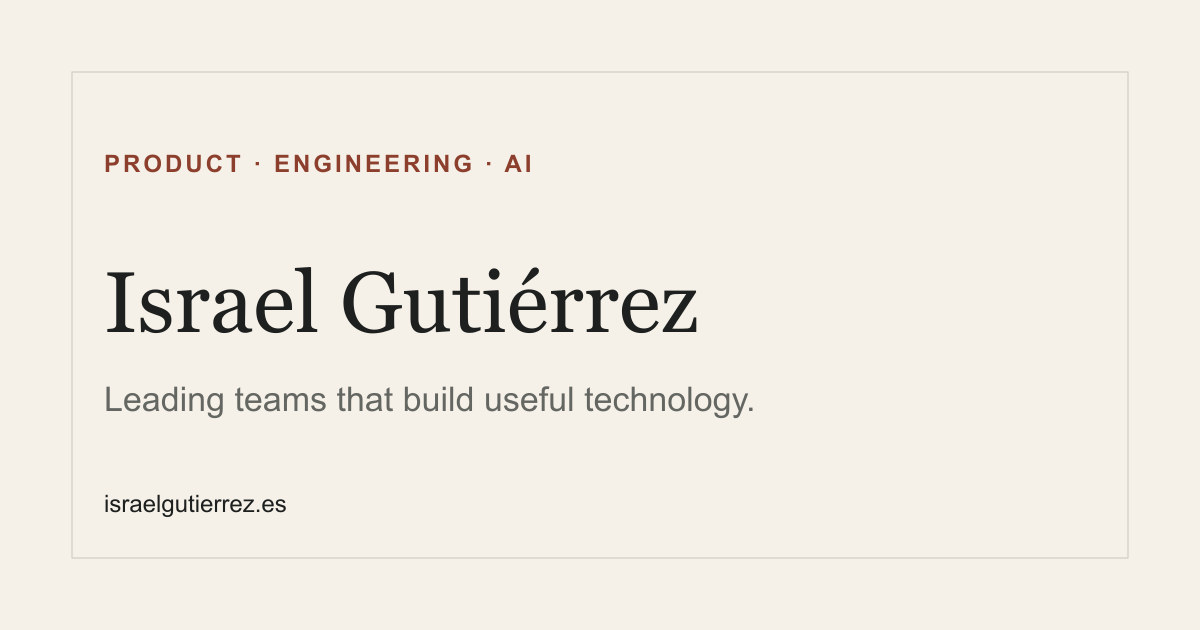
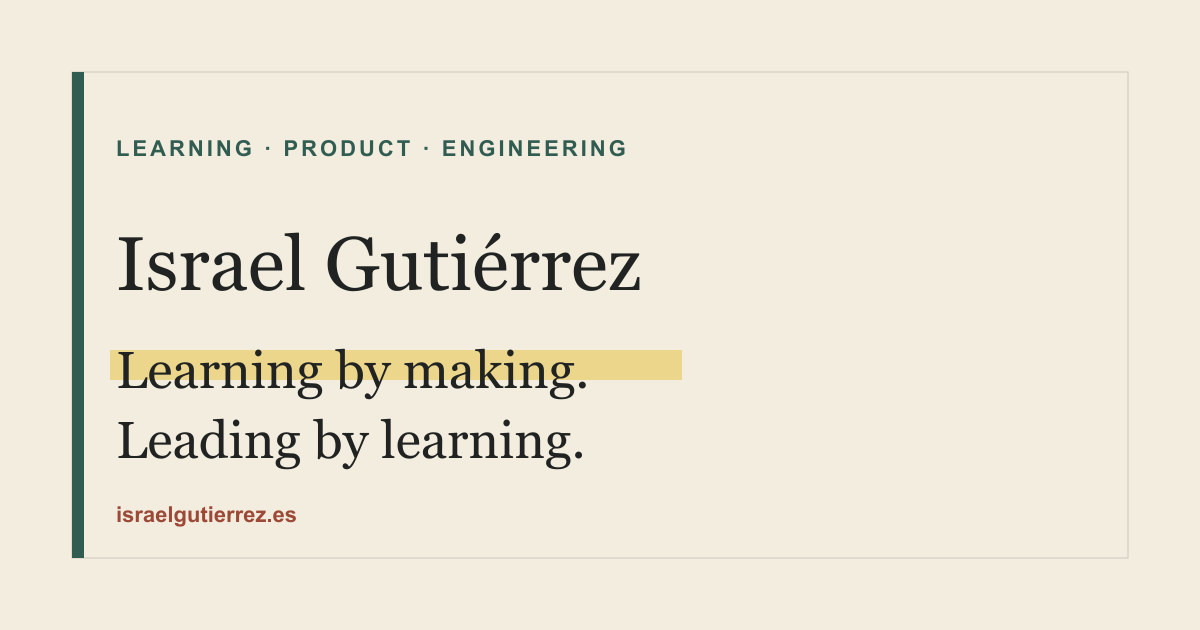
chore: complete Living Notebook release gate

Changed region(s): [[0.0617, 0.1206, 0.6167, 0.9048]]

diff --git a/tests/e2e/notes.spec.ts b/tests/e2e/notes.spec.ts
@@ -48,6 +48,35 @@ test('publishes both launch notes in newest-first order', async ({
     'content',
     'es_ES',
   );
+  await expect(page.locator('meta[property="og:type"]')).toHaveAttribute(
+    'content',
+    'article',
+  );
+  await expect(page.locator('meta[property="og:image"]')).toHaveAttribute(
+    'content',
+    /^https:\/\/israelgutierrez\.es\/_astro\//,
+  );
+  await expect(page.locator('meta[property="og:image:width"]')).toHaveAttribute(
+    'content',
+    '1200',
+  );
+  await expect(
+    page.locator('meta[property="og:image:height"]'),
+  ).toHaveAttribute('content', '750');
+  await expect(
+    page.locator('meta[property="article:published_time"]'),
+  ).toHaveAttribute('content', /^2026-11-08/);
+  const gameJsonLd = JSON.parse(
+    (await page.locator('script[type="application/ld+json"]').textContent()) ??
+      '',
+  ) as {
+    '@type': string;
+    inLanguage: string;
+    author: { name: string };
+  };
+  expect(gameJsonLd['@type']).toBe('Article');
+  expect(gameJsonLd.inLanguage).toBe('es');
+  expect(gameJsonLd.author.name).toBe('Israel Gutiérrez');
   await expect(
     page.getByRole('img', { name: /Una jornada decente.*game/i }),
   ).toBeVisible();
@@ -77,6 +106,39 @@ test('publishes both launch notes in newest-first order', async ({
   const criticalResponse = await request.get('/notes/critical-reader/');
   expect(criticalResponse.ok()).toBe(true);
   await page.goto('/notes/critical-reader/');
+  await expect(page.locator('meta[property="og:locale"]')).toHaveAttribute(
+    'content',
+    'en_US',
+  );
+  await expect(page.locator('meta[property="og:type"]')).toHaveAttribute(
+    'content',
+    'article',
+  );
+  await expect(page.locator('meta[property="og:image"]')).toHaveAttribute(
+    'content',
+    /^https:\/\/israelgutierrez\.es\/_astro\//,
+  );
+  await expect(page.locator('meta[property="og:image:width"]')).toHaveAttribute(
+    'content',
+    '1200',
+  );
+  await expect(
+    page.locator('meta[property="og:image:height"]'),
+  ).toHaveAttribute('content', '750');
+  await expect(
+    page.locator('meta[property="article:published_time"]'),
+  ).toHaveAttribute('content', /^2026-11-02/);
+  const criticalJsonLd = JSON.parse(
+    (await page.locator('script[type="application/ld+json"]').textContent()) ??
+      '',
+  ) as {
+    '@type': string;
+    inLanguage: string;
+    author: { name: string };
+  };
+  expect(criticalJsonLd['@type']).toBe('Article');
+  expect(criticalJsonLd.inLanguage).toBe('en');
+  expect(criticalJsonLd.author.name).toBe('Israel Gutiérrez');
   await expect(
     page.getByRole('heading', {
       level: 1,

diff --git a/tests/e2e/homepage.spec.ts b/tests/e2e/homepage.spec.ts
@@ -27,13 +27,21 @@ test('publishes complete identity and sharing metadata', async ({ page }) => {
   const jsonLd = JSON.parse(
     (await page.locator('script[type="application/ld+json"]').textContent()) ??
       '',
-  ) as { '@type': string; url: string; sameAs: string[] };
+  ) as {
+    '@type': string;
+    url: string;
+    sameAs: string[];
+    jobTitle: string;
+  };
   expect(jsonLd['@type']).toBe('Person');
   expect(jsonLd.url).toBe('https://israelgutierrez.es/');
   expect(jsonLd.sameAs).toEqual([
     'https://www.linkedin.com/in/israelgutierrezrojas/',
     'https://github.com/gootyfer',
   ]);
+  expect(jsonLd.jobTitle).toBe(
+    'Hands-on product leader in adult learning and edtech',
+  );
   expect(JSON.stringify(jsonLd)).not.toContain('mailto:');
 });
 
@@ -283,6 +291,15 @@ for (const width of [320, 768, 1440]) {
       '.project-feature__visual img, .project-compact__image',
     );
     for (const image of await projectImages.all()) {
+      await image.scrollIntoViewIfNeeded();
+      await expect
+        .poll(() =>
+          image.evaluate((element) => {
+            const img = element as HTMLImageElement;
+            return img.complete && img.naturalWidth > 0;
+          }),
+        )
+        .toBe(true);
       const ratio = await image.evaluate((element) => {
         const img = element as HTMLImageElement;
         const box = img.getBoundingClientRect();

diff --git a/docs/release/2026-11-02-launch-checklist.md b/docs/release/2026-11-02-launch-checklist.md
@@ -75,18 +75,28 @@ records during the web cutover.
 
 ## Pre-DNS deployment checks
 
-- [ ] CI is green for formatting, Astro/TypeScript, unit/content,
-      configuration, build, and all 66 browser tests.
-- [ ] Homepage renders at mobile and desktop widths.
-- [ ] LinkedIn, GitHub, and email links are correct.
+- [x] CI is green for formatting, Astro/TypeScript, unit/content,
+      configuration, build, and the complete configured browser suite.
+- [x] Homepage renders at mobile and desktop widths.
+- [x] LinkedIn, GitHub, and email links are correct.
 - [x] Portrait approved by Israel for public launch on 2026-11-02.
 - [x] Public email address `me@israelgutierrez.es` approved by Israel on
       2026-11-02.
-- [ ] Selected work and talk claims have been checked one final time.
-- [ ] Exact archived article route returns 200.
-- [ ] RSS, sitemap, robots, 404, favicon, social image, canonical metadata, and
+- [x] Living Notebook direction, uncropped portrait treatment, and semantic
+      Margin notes approved by Israel on 2026-11-02.
+- [x] Una jornada decente as the primary project, followed by Critical Reader
+      and Price Scoring Simulator, plus the Spanish launch article, approved by
+      Israel on 2026-11-08.
+- [x] The deliberate typographic talk fallback is approved for launch while no
+      reusable talk photograph is available; replace it only with an approved
+      photograph and credit.
+- [x] Selected work and talk claims have been checked one final time against
+      the approved brief and their linked public sources.
+- [x] Exact archived article route returns 200.
+- [x] RSS, sitemap, robots, 404, favicon, social image, canonical metadata, and
       JSON-LD are correct.
-- [ ] Axe smoke checks pass on homepage, archived article, and 404.
+- [x] Axe smoke checks pass on homepage, both launch notes, archived article,
+      and 404.
 
 ## Public HTTPS verification
 
